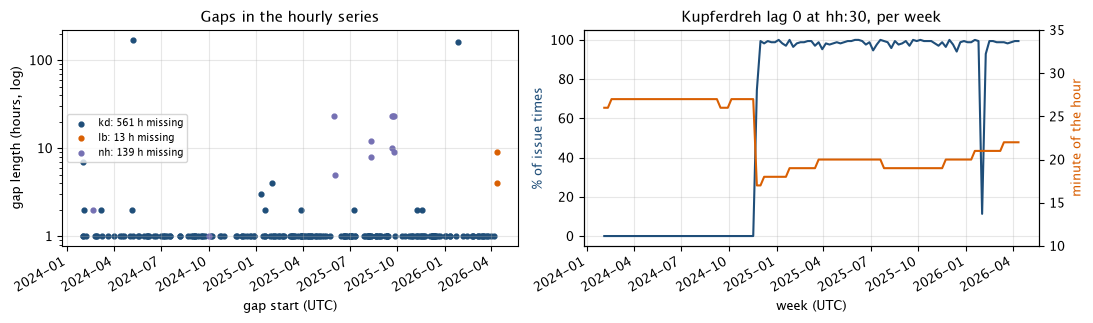
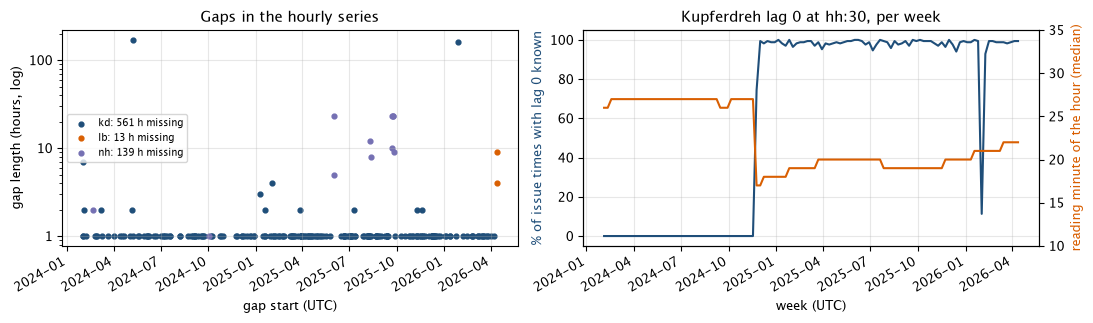
docs(analysis): sharpen the data learnings after review
Drop the claimed 5 mm rain threshold (the response is roughly linear),
date the lag-0 switch to 2024-11-19/20 and mark which earlier findings
are corrected or qualified. Name radar_catchment as the cell maximum
and fix plot legends and axis labels.

diff --git a/analysis/model-evaluation/learnings.md b/analysis/model-evaluation/learnings.md
@@ -75,7 +75,7 @@ The ridge and simple-model numbers come from PRs #68 and #70 before merge. Score
 
 ## 2026-10-14 · The data
 
-A descriptive look at the target and the inputs in the frozen dataset. **It covers the whole window, test folds included**, so nothing here is a clean hold-out result. Where a number is a design choice (a threshold, a window, a coefficient), the pre-F1 value (before 2024-10-01) is given next to it, or the text says it wasn't checked there. Hourly series are built from the dataset: Kupferdreh at hh:22 (`target_1`), Langenberg and Nierenhof as lag 0 at hh:30 (valid about hh:00), radar as lag 0 (catchment mean = cell-weighted zone mean). All times UTC. Scripts stayed in a scratch folder.
+A descriptive look at the target and the inputs in the frozen dataset. **It covers the whole window, test folds included**, so nothing here is a clean hold-out result. Where a number is a design choice (a threshold, a window, a coefficient), the pre-F1 value (before 2024-10-01) is given next to it, or the text says it wasn't checked there. Hourly series are built from the dataset: Kupferdreh at hh:22 (`target_1`), Langenberg and Nierenhof as lag 0 at hh:30 (valid about hh:00), radar as lag 0. "Catchment mean" here is the cell-weighted mean of the five zones; the dataset's `radar_catchment` column is the cell maximum, not a mean. All times UTC. Scripts stayed in a scratch folder.
 
 ### The level
 
@@ -96,7 +96,7 @@ A descriptive look at the target and the inputs in the frozen dataset. **It cove
 ### Recession
 
 - **Two speeds.** Normalised to the event's rise, 32 single-peak events of at least 30 cm keep 77 % of the rise after 6 h, 65 % after 12 h, 52 % after 24 h and 39 % after 48 h. Two exponentials fit the median: 0.29 · exp(−t/6 h) + 0.71 · exp(−t/71 h). Pre-F1 alone (13 events): 0.40 · exp(−t/8.5 h) + 0.60 · exp(−t/83 h), 48 % left after 24 h.
-- **The 30-day base is not where the recession ends.** On dry hours from October to March the fall rate hardly depends on the distance to the base: 0.10 cm/h at 2–5 cm above it and 0.28 cm/h at 40–60 cm above. A linear reservoir towards the base fits badly. Its half-life is 83 h on the whole window and 46 h pre-F1. This fits the earlier recession factor of 0.8 at +24 h: the pull towards the base is weak.
+- **The 30-day base is not where the recession ends.** On dry hours from October to March the fall rate hardly depends on the distance to the base: 0.10 cm/h at 2–5 cm above it and 0.28 cm/h at 40–60 cm above. A linear reservoir towards the base fits badly. Its half-life is 83 h on the whole window and 46 h pre-F1. Qualifies the earlier "high levels fall back towards the 30-day base": they do, but slowly and not in proportion to the distance, which fits the fitted factor of 0.8 at +24 h.
 
 ![Normalised event shapes and the fall rate on dry hours](plots/data-2026-10-14/04-event-shape-recession.png)
 
@@ -116,7 +116,7 @@ A descriptive look at the target and the inputs in the frozen dataset. **It cove
 
 - **Raw and cleaned are the same at every target hour** (18,687 hours with both). Cleaning removed 5 hourly readings and changed none: three spikes of 256–317 cm on 2025-02-01, and single readings on 2024-09-04 and 2026-01-11 (130 cm). So `target_raw` adds nothing, and `kd_last_raw_cm` contains the 317 cm spike, so don't use it to label high water.
 - **Gaps are short, apart from two.** Kupferdreh misses 561 hours (2.9 %) in 214 gaps; 90 % of them are single hours. Two long ones: 170 h from 2024-05-08 and 160 h from 2026-01-26. Only one gap falls in high water (3 h on 2025-01-09 at 85 cm). Langenberg misses 13 hours; Nierenhof misses 139, mostly 2025-09-21 to 09-25.
-- **Correction to the earlier "38 %": lag 0 comes in two regimes.** Until late November 2024 Kupferdreh read at :27, so lag 0 was never known at hh:30: 100 % missing from February to September 2024. From about 2024-11-23 it reads at :19–:22, and lag 0 is known in 98–99 % of issue times, except for a short dip in early February 2026. Training for F1 never saw lag 0, and the test data mostly have it. The newest known reading is 10 minutes old in the median (90th percentile 63 minutes).
+- **Lag 0 comes in two regimes.** This corrects the earlier "the current hour's reading is missing in 38 % of cases": 38 % is the average of two regimes. It also corrects "Live behaves the same": live, lag 0 is now known in 98–99 % of issue times. Until 2024-11-19 Kupferdreh read at :26–:27, so lag 0 was never known at hh:30 (100 % missing until 2024-11-18, 75 % on 11-19). From 2024-11-20 it reads at :17–:18 (until January 2025), then at :19–:22, and lag 0 is missing in 0–4 % of issue times per day. The one dip, from 2026-01-26 to 02-02, is the 160-hour gap, not a timing change. Training for F1 never saw lag 0, and the test data mostly have it. The newest known reading is 10 minutes old in the median (90th percentile 63 minutes).
 
 ![Gaps and the lag-0 regime switch](plots/data-2026-10-14/05-data-quality.png)
 
@@ -137,7 +137,7 @@ A descriptive look at the target and the inputs in the frozen dataset. **It cove
 
 ![Rain intensity by zone and the zone-wise lag correlation](plots/data-2026-10-14/07-radar-zones.png)
 
-- **About 1.5 cm of rise per mm of rain, after a threshold of about 5 mm.** The sample is 159 isolated rain episodes: at least 1 mm, ended by 6 dry hours, and no rain in the 24 h after. Below 5 mm the level rises 1–3 cm in the median, and never by 10 cm. At 5–10 mm, 31 % rise by 10 cm or more; above 10 mm almost all do. Fit: rise ≈ 1.47 cm/mm × rain − 1.2 cm (R² 0.75); pre-F1 1.72 cm/mm − 1.8 (R² 0.76). Peak intensity adds a little on the whole window (R² 0.81), but its pre-F1 coefficient has the opposite sign, so it isn't robust. (The episode definition and the 5 mm threshold were not checked pre-F1.)
+- **Roughly linear, about 1.5 cm of rise per mm of rain; below 5 mm rises stay under 10 cm.** The sample is 159 isolated rain episodes: at least 1 mm, ended by 6 dry hours, and no rain in the 24 h after. Below 5 mm the level rises 1–3 cm in the median, and never by 10 cm. At 5–10 mm the median rise is 6.4 cm, and 31 % rise by 10 cm or more; above 10 mm almost all do. Fit: rise ≈ 1.47 cm/mm × rain − 1.2 cm (R² 0.75), which breaks even near 1 mm, so the data show no clear threshold; pre-F1 1.72 cm/mm − 1.8 (R² 0.76). Peak intensity adds a little on the whole window (R² 0.81), but its pre-F1 coefficient has the opposite sign, so it isn't robust. (The episode definition was not checked pre-F1.)
 - **A wet start does not mean a bigger rise in cm, rather the opposite.** For 1–10 mm, starting above the 30-day base gives median rises of 1.2–4.9 cm against 2.3–10.1 cm from below it. Rise correlates with the start level at −0.25 (pre-F1 −0.33), and with the 7-day radar sum at −0.13. A likely reason is the flatter rating at high levels (see the upstream curve): the same extra water gives fewer cm.
 - **Rain peak to level peak: 6 hours in the median** (quartiles 4 and 8, 90th percentile 11; 54 isolated episodes rising at least 10 cm; pre-F1 5.5).
 
@@ -155,7 +155,7 @@ A descriptive look at the target and the inputs in the frozen dataset. **It cove
 
 ### What this suggests for models
 
-1. **Build future rain as ICON sums with a threshold.** Use 6-hour and 24-hour sums of the ICON mean, not hourly values. Add a hinge such as max(sum − 5 mm, 0), since rain below about 5 mm barely moves the level and above it the rise is about 1.5 cm/mm. Leave out p90.
+1. **Build future rain as ICON sums.** Use 6-hour and 24-hour sums of the ICON mean, not hourly values; the response is roughly linear at about 1.5 cm/mm. A hinge such as max(sum − 5 mm, 0) is one candidate to test, not something the data demand. Leave out p90.
 2. **Model the recession from the recent trough or peak, not the 30-day base.** Two time scales: about 6–8 h for the fast part (about a third of the rise) and 70–80 h for the rest. Hours since the last peak and the height above the 72-hour minimum should beat "distance to the 30-day base".
 3. **Use the newest known reading and its age, never lag 0 directly.** Lag 0 was always missing before late November 2024 and is almost always there since. A feature built on lag 0 trains on one regime and tests on another.
 4. **Upstream gauges are for +1 to +3 h only.** They explain about a quarter of wet-weather changes in the first hours and nothing after 6 h, and they don't warn of onsets. Use the 3-hour changes; skip routing and travel times. If a level mapping is used, make it nonlinear and expect it to drift a few cm between folds.
